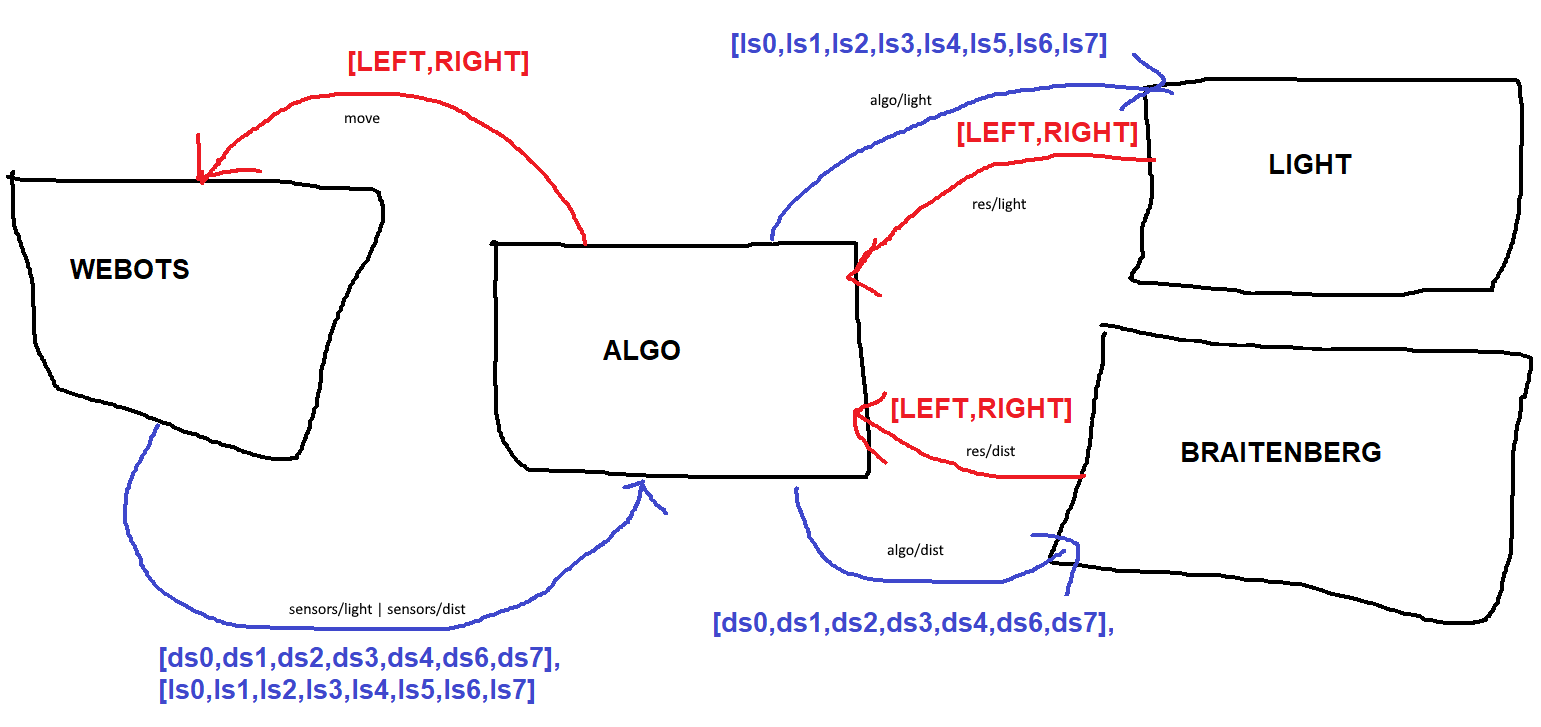
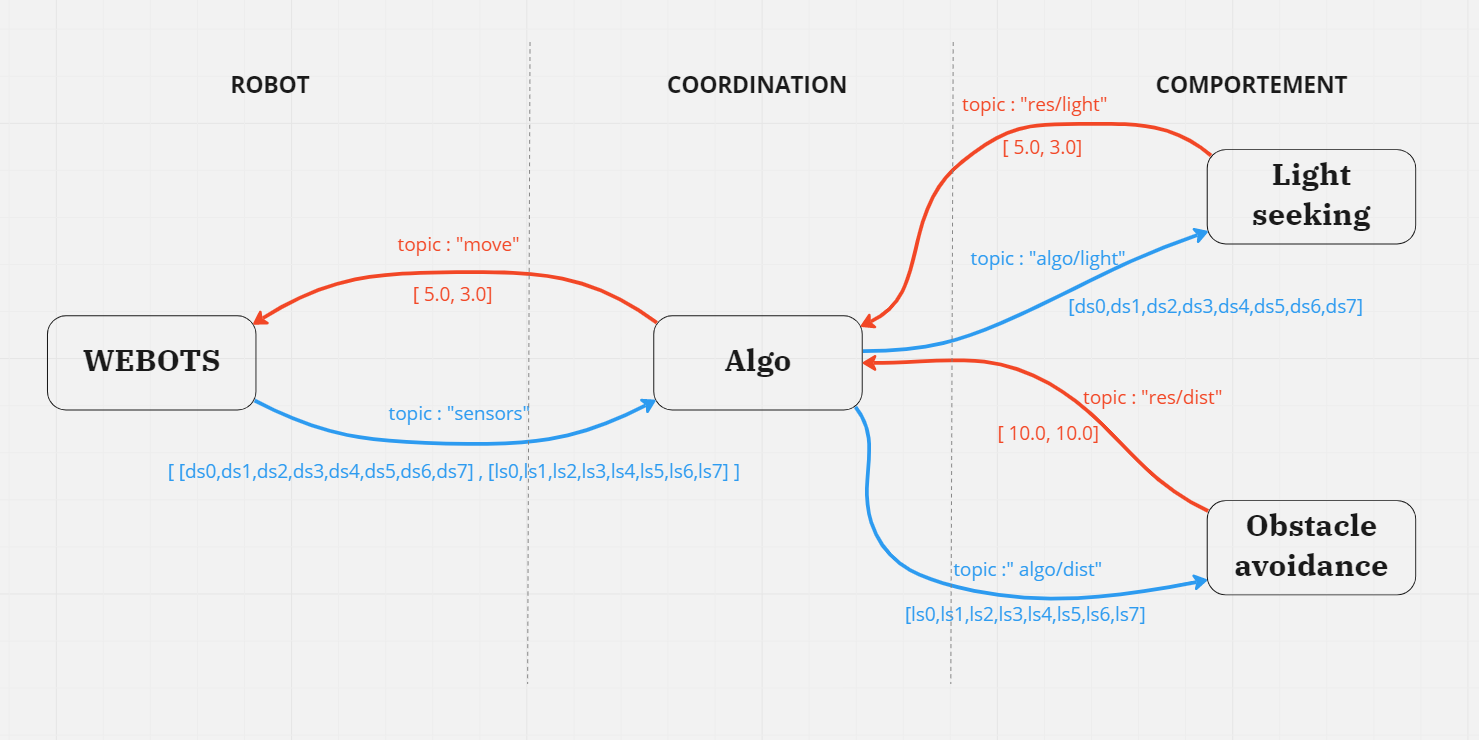
update du readme + schema

diff --git a/readme.md b/readme.md
@@ -1,26 +1,5 @@
 # Installation
 
-## Prérequis
-
-Avant de commencer à utiliser ce projet, veuillez vous assurer d'avoir installé les éléments suivants sur votre ordinateur :
-
-- Python 3
-- Mosquitto (Broker MQTT)
-
-## Utilisation sans passer par Docker
-
-Pour installer Paho (Client MQTT pour Python), utilisez la commande suivante :
-
-```
-pip install paho-mqtt
-```
-
-## Lancer le broker Mosquitto
-
-```
-mosquitto -p 1880
-```
-
 ## V1
 
 ```c
@@ -52,6 +31,8 @@ Nous avons fait le choix de stopper la recherche de sources lumineuse des lors q
 
 Notre comportement final est donc celui d'un robot parcourant son environement tout en evitant les obstacles jusqu'a ce que celui ci decouvre une source lumineuse. Tel un papillion dans le noir, il se retrouve alors a tourner autour de celle ci a pour toujours.
 
+A noter que le fichier de coordination à été rendu générique pour pouvoir minimiser le nombre de choses à modifier en cas d'ajout d'un nouveau module de comportement. 
+
 # Examples
 
 ```python
@@ -71,7 +52,27 @@ braitengerg = [5.3,10] #Detection d'un obstacle
 light = [10,5]         #Detection de lumiere
 speed = [10,10]        #L'evitement de l'obstacle prend la priorité
 ```
+## Prérequis
+Avant de commencer à utiliser ce projet, veuillez vous assurer d'avoir installé les éléments suivants sur votre ordinateur :
+- Python 3
+- Mosquitto (Broker MQTT)
+- Paho (Client MQTT pour Python)
 
-## SCHEMA
+## Installation de Paho
+Pour installer Paho, utilisez la commande suivante :
+
+```
+pip install paho-mqtt
+```
+
+## Lancer le broker Mosquitto
+
+```
+mosquitto -p 1880
+```
+
+## ARCHITECTURE
+
+On peut voir ci dessous le schéma de notre architecture, avec les différents topics par lequel passe nos données ainsi qu'un exemple de la donnée type qui va passer dedans. Il n'y a pas de différence entre les flèches bleues et rouges, à part que les rouges sont des messages issus de calculs et transporte l'information de la puissance à passer dans les roues. Alors que les flèches bleues signifient que l'on apporte les données brutes venant des capteurs. 
 
 ![alt text](https://github.com/Yann-Forner/tp4_webots/blob/main/schema.png?raw=true)
